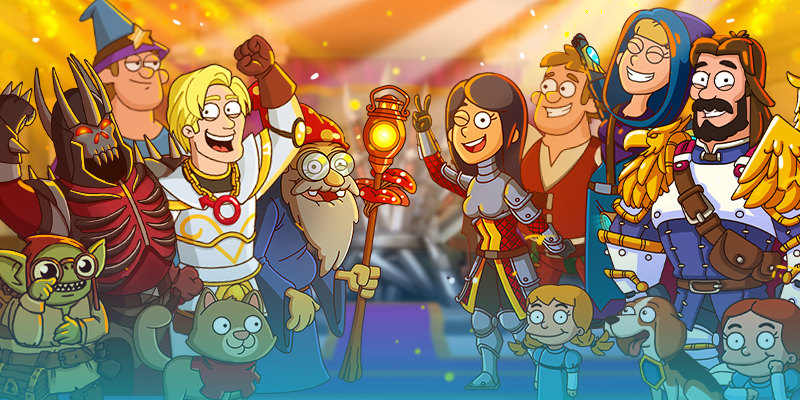
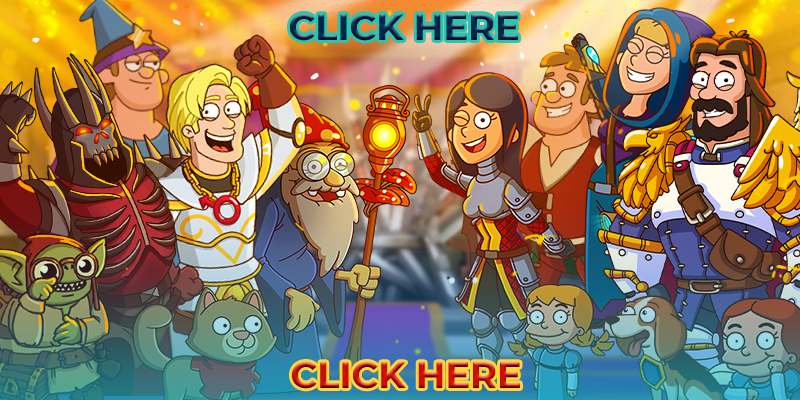
Changing Discord invite image on discord page

Changed region(s): [[0.3438, 0.9, 0.6562, 0.99], [0.3438, 0.03, 0.6562, 0.12]]

diff --git a/src/visitor/pages/about/discord/index.js b/src/visitor/pages/about/discord/index.js
@@ -22,7 +22,6 @@ const Discord = () => {
             </div>
 
             <div className="flex flex-col min-h-full h-auto mb-6">
-            <h1 className="text-3xl font-extrabold text-center mt-12 mb-2">Click Here!</h1>
                 <div className="mx-auto my-6">
                     <a href="https://discord.gg/7vhfVRm" className="">
                         <img src={JoinDiscord} className="lg:w-full w-nine mx-auto rounded-3xl hover:shadow-discord transition duration-300 ease-in-out" alt="oops" />
